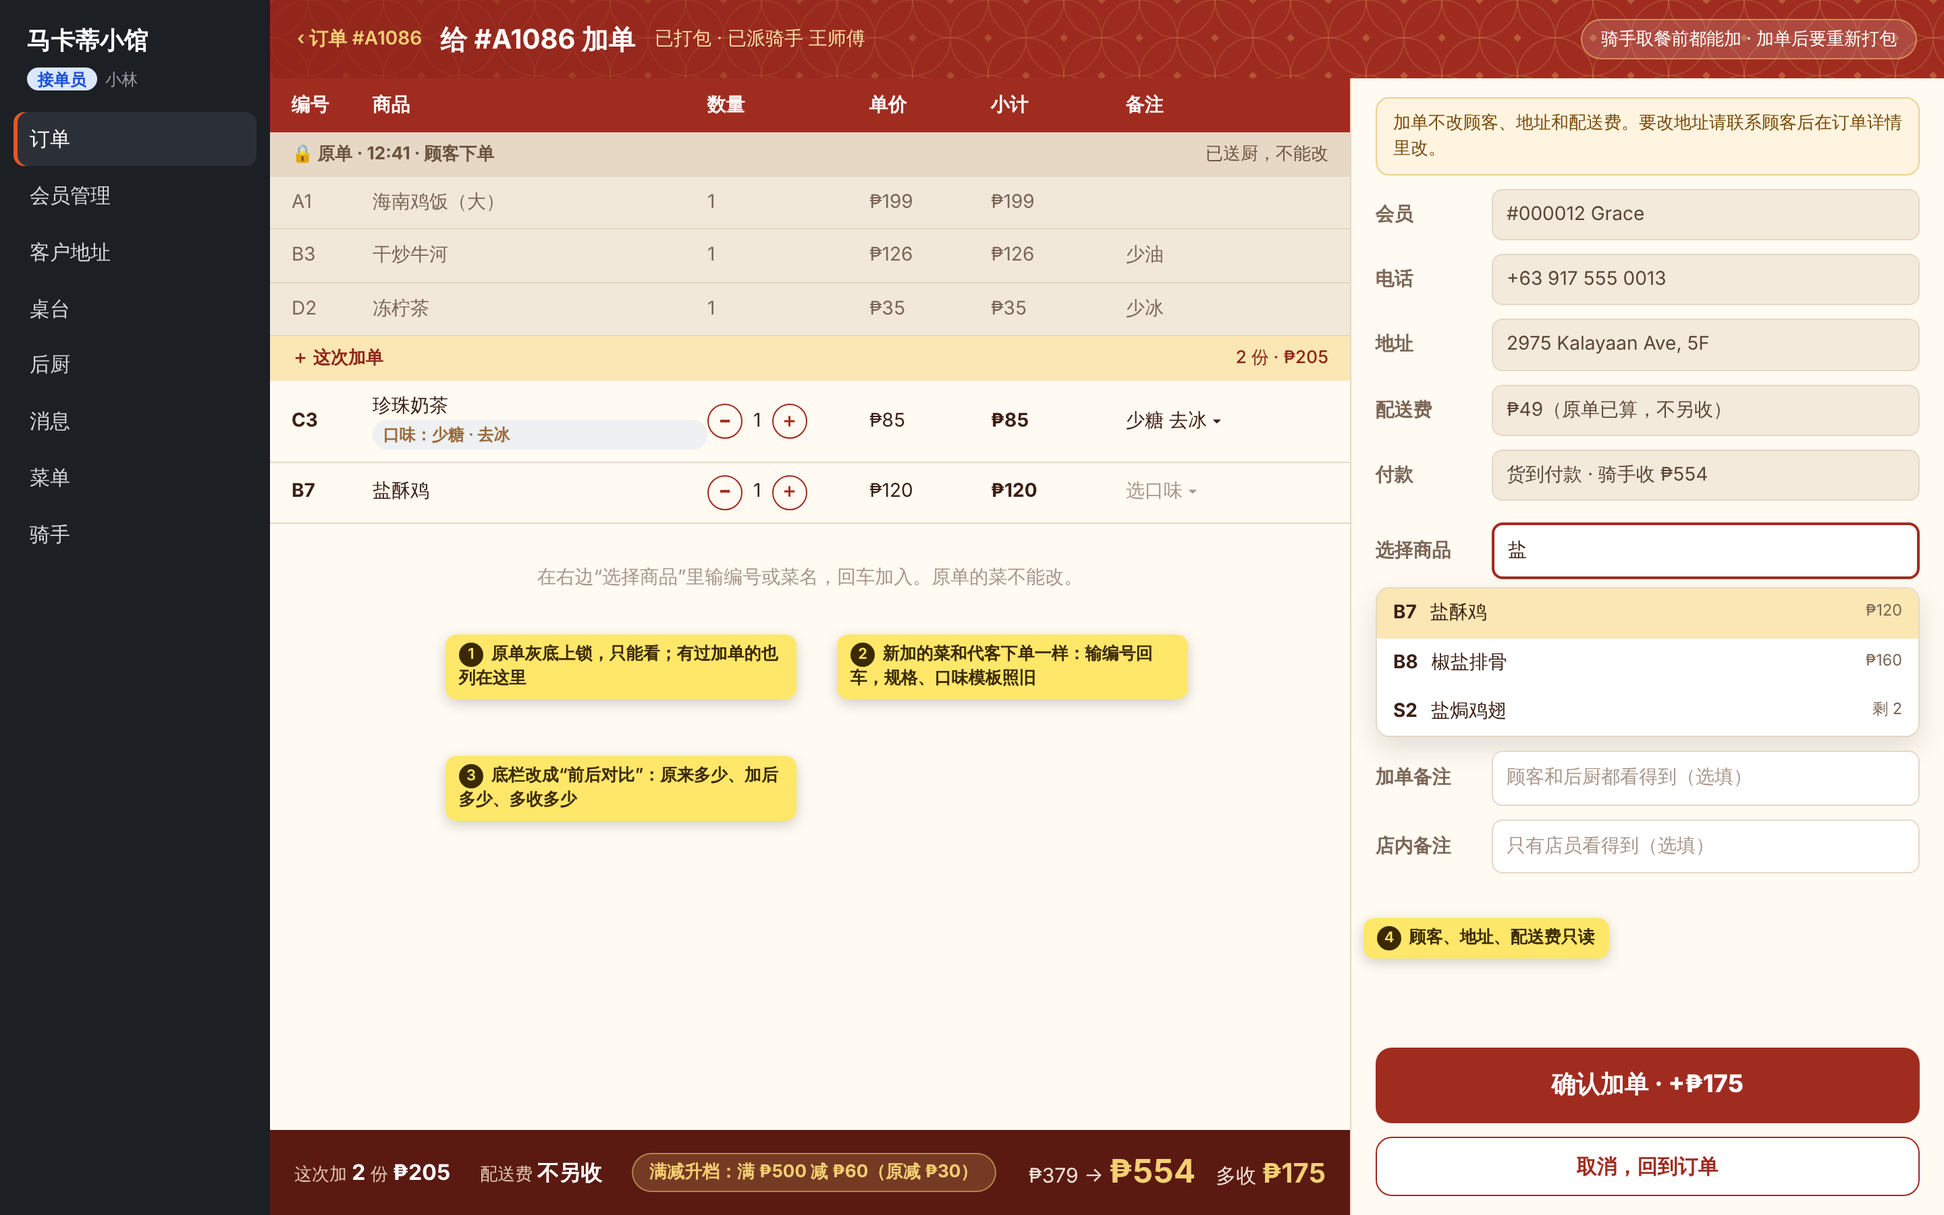
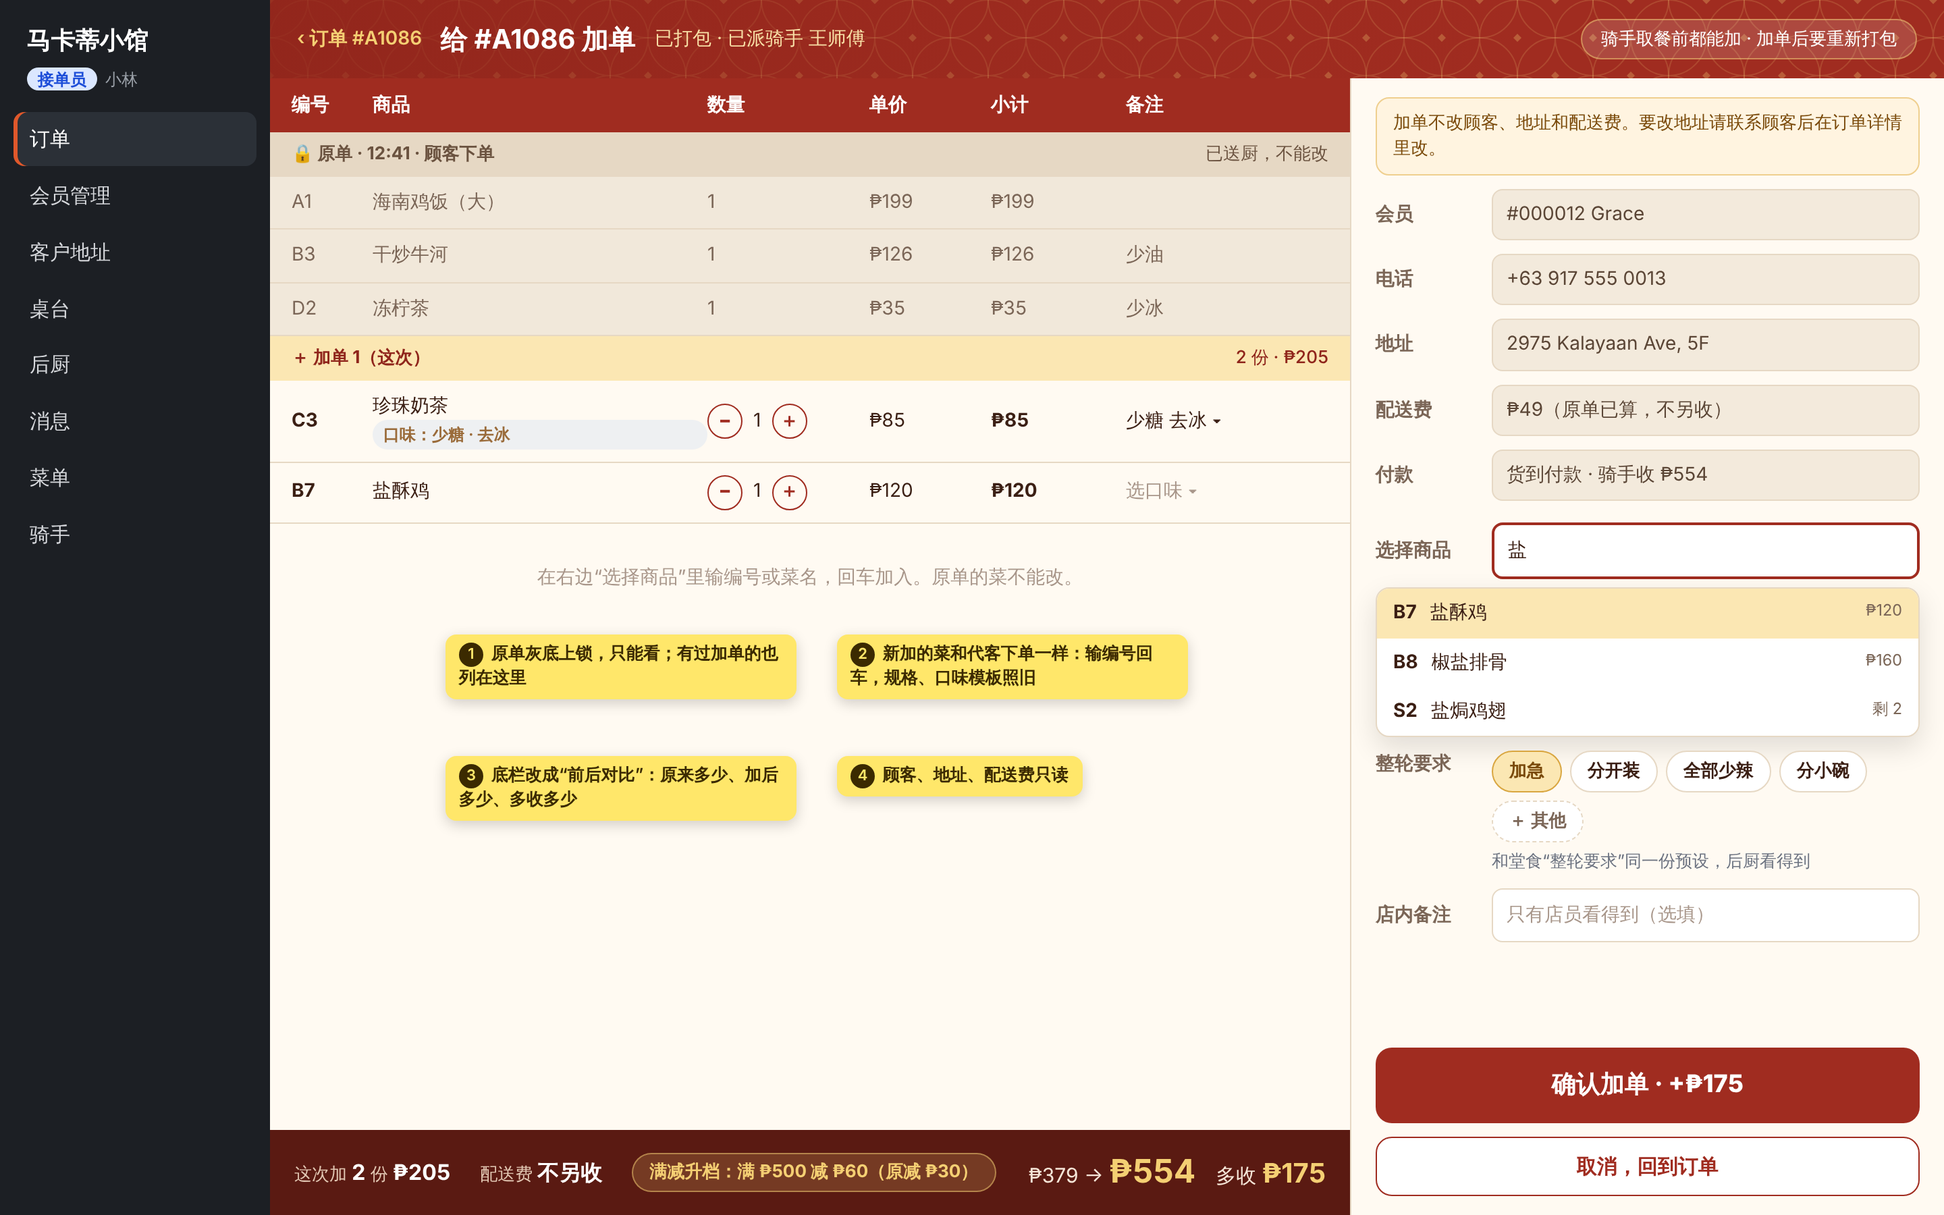
加单方案 v0.2：按堂食模式实际实现调整（批次字段、轮次抬头、后厨写法、权限、补单小票）
Claude-Session: https://claude.ai/code/session_0171QGWL5tMNTkqrfGXYh7eL

diff --git a/docs/add-on-order-prototype/index.html b/docs/add-on-order-prototype/index.html
@@ -29,7 +29,8 @@
   .cols { display: grid; grid-template-columns: 1fr 380px; gap: 16px; min-height: 0; flex: 1; }
   .box { background: #fff; border: 1px solid #e5e7eb; border-radius: 12px; padding: 16px 18px; }
   .box h3 { margin: 0 0 8px; font-size: 16px; }
-  .seghead { display: flex; align-items: center; gap: 8px; margin: 12px 0 2px; padding: 6px 10px; border-radius: 8px; background: #f4f5f6; font-size: 13px; color: #4b5563; font-weight: 600; }
+  .seghead { display: flex; align-items: center; gap: 6px; margin: 12px 0 2px; padding: 7px 10px; border-radius: 6px; background: #f3e7d4; font-size: 13px; color: #7b6657; font-weight: 600; }
+  .seghead b { color: #3b1f14; }
   .seghead.add { background: #fff1e2; color: #a2510a; }
   .seghead.pend { background: #fff7e0; color: #8a5a00; border: 1px dashed #e8b64c; }
   .seghead .r { margin-inline-start: auto; font-weight: 500; }
@@ -79,6 +80,8 @@
   .dd div { padding: 8px 12px; font-size: 14px; display: flex; gap: 10px; } .dd div.on { background: #fbe7b3; } .dd small { margin-inline-start: auto; color: var(--muted); }
   .wbtn { background: var(--red); color: #fff; border-radius: 12px; text-align: center; padding: 15px 0; font-size: 18px; font-weight: 800; }
   .wbtn.ghost { background: #fff; color: var(--red); border: 1.5px solid var(--red); padding: 10px 0; font-size: 15px; }
+  .chipw { border: 1.5px solid var(--line); background: #fff; border-radius: 999px; padding: 5px 12px; font-size: 13px; font-weight: 600; color: var(--ink); }
+  .chipw.on { background: #fbe7b3; border-color: #d9a640; color: #7a4a0a; } .chipw.dash { border-style: dashed; color: var(--muted); }
   .lockbar { background: #fff4e0; border: 1px solid #efcf8f; color: #7a4a0a; border-radius: 10px; padding: 9px 12px; font-size: 13px; }
 
   /* 弹窗 */
@@ -122,6 +125,18 @@
   .stp { font-size: 12px; font-weight: 700; border-radius: 999px; padding: 1px 8px; }
 
   /* 后厨 / 骑手 */
+  .ktabs { display: inline-flex; background: #eceef0; border-radius: 999px; padding: 4px; } .ktabs span { padding: 7px 16px; border-radius: 999px; font-weight: 700; font-size: 15px; } .ktabs span.on { background: #fff; color: #c2410c; }
+  .kbtn { border: 1px solid #e5e7eb; background: #fff; border-radius: 8px; padding: 6px 12px; font-weight: 600; font-size: 13px; } .kbtn.on { background: #c2410c; color: #fff; border-color: #c2410c; }
+  .kcols { display: grid; grid-template-columns: repeat(3, 1fr); gap: 12px; align-items: start; }
+  .kcard { background: #fff; border: 1px solid #e5e7eb; border-radius: 12px; padding: 12px 14px; display: flex; flex-direction: column; gap: 6px; }
+  .kcard.hot { border: 2px solid #f08a24; box-shadow: 0 0 0 3px rgba(240,138,36,.18); }
+  .kh2 { display: flex; align-items: center; gap: 6px; font-size: 18px; }
+  .tg { font-size: 12px; font-weight: 700; border-radius: 999px; padding: 2px 8px; background: #eceef0; color: #4b5563; }
+  .tg.brand { background: #ffe4d6; color: #c2410c; } .tg.org { background: #f08a24; color: #fff; } .tg.warn { background: #fde9cf; color: #b26a00; } .tg.bad { background: #fde2df; color: #b42318; margin-inline-end: 4px; }
+  .kl { display: flex; align-items: center; gap: 6px; padding: 7px 0; border-top: 1px solid #eef0f2; }
+  .kl.done .kn { color: #9ca3af; } .kl.new { background: #fff7ed; margin: 0 -8px; padding: 7px 8px; border-radius: 8px; border-top-color: transparent; }
+  .kl .g { flex: 1; min-width: 0; } .kn { font-size: 16px; font-weight: 700; } .sm { font-size: 12.5px; } .mut { color: #6b7280; font-weight: 400; } .kr { color: #b26a00; font-weight: 700; }
+  .kb { border: 1px solid #e5e7eb; border-radius: 8px; padding: 4px 10px; font-size: 13px; font-weight: 600; background: #fff; } .kb.ok { background: #1f8a4c; color: #fff; border-color: #1f8a4c; }
   .kds { background: #111418; color: #e8eaed; flex: 1; padding: 16px; display: grid; grid-template-columns: repeat(3, 1fr); gap: 14px; align-content: start; }
   .kc { background: #1d2228; border-radius: 12px; overflow: hidden; border: 2px solid #2c333b; }
   .kc.hot { border-color: #f08a24; box-shadow: 0 0 0 3px rgba(240,138,36,.25); }
@@ -148,14 +163,14 @@
     <div class="cols">
       <div class="box" style="overflow:hidden">
         <h3>菜品 <span style="font-weight:500;color:#6b7280;font-size:13px">原单 + 加单 1 次</span></h3>
-        <div class="seghead">原单 · 12:41 · 顾客下单<span class="r">3 份 · ₱360</span></div>
+        <div class="seghead"><b>原单</b> 12:41 · 顾客下单<span class="r">3 份 · ₱360</span></div>
         <div class="ln"><span class="q">×1</span>海南鸡饭（大）<span class="p">₱199</span></div>
         <div class="ln"><span class="q">×1</span>干炒牛河 <small>少油</small><span class="p">₱126</span></div>
         <div class="ln"><span class="q">×1</span>冻柠茶 <small>少冰</small><span class="p">₱35</span></div>
-        <div class="seghead add">加单 1 · 12:55 · 店员 小林（客户微信）<span class="r">2 份 · ₱205</span></div>
+        <div class="seghead add"><b>加单 1</b> 12:55 · 店员 小林 · 加急<span class="r">2 份 · ₱205</span></div>
         <div class="ln"><span class="q">×1</span>珍珠奶茶 <small>少糖 · 去冰</small><span class="st" style="background:#fde9cf;color:#c2650a">制作中</span><span class="p">₱85</span></div>
         <div class="ln"><span class="q">×1</span>盐酥鸡<span class="st" style="background:#fde9cf;color:#c2650a">制作中</span><span class="p">₱120</span></div>
-        <div class="seghead pend">顾客加菜 · 13:02 · 等你确认（还剩 4:12）<span class="r">1 份 · +₱45</span></div>
+        <div class="seghead pend"><b>加单 2</b> 13:02 · 顾客加菜 · 等你确认（还剩 4:12）<span class="r">1 份 · +₱45</span></div>
         <div class="ln" style="background:#fffbef"><span class="q">×1</span>卤蛋<span class="p">₱45</span></div>
         <div style="display:flex;gap:10px;padding:8px 10px 4px"><span class="btn green" style="padding:7px 16px">确认加菜</span><span class="btn" style="padding:7px 16px">拒绝…</span><span class="hint" style="margin:auto 0">确认后金额变成 ₱599</span></div>
         <div style="margin-top:10px">
@@ -181,13 +196,13 @@
         </div>
         <div class="box" style="font-size:13px;color:#4b5563;line-height:1.7">
           <h3>操作记录</h3>
-          12:41 顾客下单 · 12:42 小林 接单<br>12:52 打包完成 2 袋 · 12:53 派给 王师傅<br><b style="color:#a2510a">12:55 小林 加单 2 份 +₱175，退回“等菜”</b><br><b style="color:#8a5a00">13:02 顾客加菜 1 份，等确认</b>
+          12:41 顾客下单 · 12:42 小林 接单<br>12:52 打包完成 2 袋 · 12:53 派给 王师傅<br><b style="color:#a2510a">12:55 小林 加单 2 份 +₱175（加急），退回“等菜”</b><br><b style="color:#8a5a00">13:02 顾客加菜 1 份，等确认</b>
         </div>
       </div>
     </div>
   </div>
   <div class="anno" data-n="1" style="left:1040px;top:670px">截止前一直有“＋加单”，下面一行写清楚能加到什么时候、加了会怎样</div>
-  <div class="anno" data-n="2" style="left:330px;top:720px">菜品按“原单 / 加单 N”分段，写时间和谁加的；和堂食的“第 N 轮”同一个组件</div>
+  <div class="anno" data-n="2" style="left:330px;top:720px">分段抬头和堂食账单一样：第几批、时间、谁加的、整轮要求</div>
   <div class="anno" data-n="3" style="left:620px;top:720px">顾客自己加的要确认，5 分钟不处理自动失效</div>
   <div class="anno" data-n="4" style="left:330px;top:800px">满减按总额重算只升不降；配送费不另收；骑手收新总额</div>
 </div>
@@ -209,7 +224,7 @@
         <div class="trow lock"><span>A1</span><span>海南鸡饭（大）</span><span>1</span><span>₱199</span><span>₱199</span><span></span></div>
         <div class="trow lock"><span>B3</span><span>干炒牛河</span><span>1</span><span>₱126</span><span>₱126</span><span>少油</span></div>
         <div class="trow lock"><span>D2</span><span>冻柠茶</span><span>1</span><span>₱35</span><span>₱35</span><span>少冰</span></div>
-        <div class="rhead new">＋ 这次加单<span class="r">2 份 · ₱205</span></div>
+        <div class="rhead new">＋ 加单 1（这次）<span class="r">2 份 · ₱205</span></div>
         <div class="trow"><span><b>C3</b></span><span>珍珠奶茶<span class="tag">口味：少糖 · 去冰</span></span><span class="qbox"><i>−</i>1<i>＋</i></span><span>₱85</span><span><b>₱85</b></span><span>少糖 去冰 ▾</span></div>
         <div class="trow"><span><b>B7</b></span><span>盐酥鸡</span><span class="qbox"><i>−</i>1<i>＋</i></span><span>₱120</span><span><b>₱120</b></span><span style="color:#a8968a">选口味 ▾</span></div>
         <div style="padding:30px;text-align:center;color:#a8968a">在右边“选择商品”里输编号或菜名，回车加入。原单的菜不能改。</div>
@@ -229,7 +244,8 @@
         <div class="frow"><span>付款</span><div class="ro">货到付款 · 骑手收 ₱554</div></div>
         <div class="frow" style="margin-top:6px"><span>选择商品</span><div class="inp on">盐</div></div>
         <div class="dd"><div class="on"><b>B7</b>盐酥鸡<small>₱120</small></div><div><b>B8</b>椒盐排骨<small>₱160</small></div><div><b>S2</b>盐焗鸡翅<small>剩 2</small></div></div>
-        <div class="frow"><span>加单备注</span><div class="inp">顾客和后厨都看得到（选填）</div></div>
+        <div class="frow" style="align-items:start"><span>整轮要求</span><div style="display:flex;flex-wrap:wrap;gap:6px"><span class="chipw on">加急</span><span class="chipw">分开装</span><span class="chipw">全部少辣</span><span class="chipw">分小碗</span><span class="chipw dash">＋ 其他</span></div></div>
+        <div class="hint" style="margin:-4px 0 0 86px">和堂食“整轮要求”同一份预设，后厨看得到</div>
         <div class="frow"><span>店内备注</span><div class="inp">只有店员看得到（选填）</div></div>
         <div style="margin-top:auto;display:grid;gap:10px">
           <div class="wbtn">确认加单 · +₱175</div>
@@ -241,7 +257,7 @@
   <div class="anno" data-n="1" style="left:330px;top:470px">原单灰底上锁，只能看；有过加单的也列在这里</div>
   <div class="anno" data-n="2" style="left:620px;top:470px">新加的菜和代客下单一样：输编号回车，规格、口味模板照旧</div>
   <div class="anno" data-n="3" style="left:330px;top:560px">底栏改成“前后对比”：原来多少、加后多少、多收多少</div>
-  <div class="anno" data-n="4" style="left:1010px;top:680px">顾客、地址、配送费只读</div>
+  <div class="anno" data-n="4" style="left:620px;top:560px">顾客、地址、配送费只读</div>
 </div>
 </section>
 
@@ -267,7 +283,7 @@ B7 盐酥鸡 ×1 ₱120
     <div style="text-align:center;font-weight:700">马卡蒂小馆 · 后厨</div>
     <div class="big">加单 1</div>
     <div>原单 <b>#A1086</b> · 外卖 · Grace</div>
-    <div>12:55 · 店员 小林</div>
+    <div>12:55 · 店员 小林 · <b>加急</b></div>
     <hr>
     <div><b>1 × 珍珠奶茶</b></div><div>　· 少糖 · 去冰</div>
     <div><b>1 × 盐酥鸡</b></div>
@@ -405,34 +421,32 @@ B7 盐酥鸡 ×1 ₱120
 <!-- ======================= S6 后厨、打包、骑手 + 和堂食统一 ======================= -->
 <section id="s6">
 <div class="pc ok" style="flex-direction:column">
-  <div style="height:52px;background:#1c1f24;color:#fff;display:flex;align-items:center;gap:14px;padding:0 18px;flex:none"><b style="font-size:18px">后厨屏 · 热厨</b><span style="color:#9aa4ae">马卡蒂小馆</span><span style="margin-inline-start:auto;background:#5a3307;color:#ffcf8a;border-radius:999px;padding:4px 12px;font-weight:700">2 单有加单</span></div>
-  <div class="kds">
-    <div class="kc hot">
-      <div class="kh">#A1086 <small>外卖 · Grace</small><span class="tm">14 分</span></div>
-      <div class="ks">原单 · 12:41</div>
-      <div class="ki done">1 海南鸡饭（大）<span class="b">已好</span></div>
-      <div class="ki done">1 干炒牛河 <small>少油</small><span class="b">已好</span></div>
-      <div class="ks add">＋ 加单 1 · 12:55 · 和原单一起出</div>
-      <div class="ki">1 珍珠奶茶 <small>少糖 · 去冰</small></div>
-      <div class="ki">1 盐酥鸡</div>
+  <div style="display:flex;flex:1;min-height:0">
+  <div class="nav" style="flex:none"><div class="brand">马卡蒂小馆</div><div class="role"><b style="background:#eceef0;color:#4b5563">员工</b>后厨 阿明</div><a class="on">后厨</a><a>菜单</a><a>我的工作台</a></div>
+  <div class="content" style="gap:10px">
+    <div style="display:flex;align-items:center;gap:10px"><div class="ktabs"><span class="on">制作 · 3</span><span>打包 · 1</span><span>上菜 · 0</span></div><span style="margin-inline-start:auto;color:#6b7280;font-size:13px">同步于 13:02:20</span></div>
+    <div style="display:flex;gap:6px"><span class="kbtn">全部</span><span class="kbtn on">热厨 / Hot kitchen · 3</span><span class="kbtn">饮品台 / Drinks · 1</span><span class="kbtn">未分台 · 0</span></div>
+    <div class="kcols">
+      <div class="kcard hot">
+        <div class="kh2"><b>#A1086</b><span class="tg brand">外卖</span><span class="tg org">加单</span><span class="tg" style="margin-inline-start:auto">14 分</span></div>
+        <div class="kl done"><div class="g"><div class="kn">1 × 海南鸡饭（大）</div></div><span class="kb">撤销</span></div>
+        <div class="kl done"><div class="g"><div class="kn">1 × 干炒牛河</div><div class="sm">少油</div></div><span class="kb">撤销</span></div>
+        <div class="kl new"><div class="g"><div class="kn">1 × 珍珠奶茶<span class="sm mut"> · 加单 1</span></div><div class="sm kr">※ 加急</div><div class="sm">少糖 · 去冰</div></div><span class="kb">开始</span><span class="kb ok">做好</span></div>
+        <div class="kl new"><div class="g"><div class="kn">1 × 盐酥鸡<span class="sm mut"> · 加单 1</span></div><div class="sm kr">※ 加急</div></div><span class="kb">开始</span><span class="kb ok">做好</span></div>
+      </div>
+      <div class="kcard">
+        <div class="kh2"><b>桌 A3</b><span class="tg warn">有小孩</span><span class="tg brand">堂食</span><span class="sm mut" style="margin-inline-start:auto">D1124-007</span></div>
+        <div class="kl done"><div class="g"><div class="kn">1 × 小炒黄牛肉<span class="sm mut"> · 第 1 轮</span></div><div class="sm">大份</div></div><span class="kb">撤销</span></div>
+        <div class="kl"><div class="g"><div class="kn"><span class="tg bad">催菜</span>1 × 酸菜鱼<span class="sm mut"> · 第 2 轮</span></div><div class="sm kr">※ 先上饮料</div><div class="sm">微辣</div></div><span class="kb ok">做好</span></div>
+        <div class="kl"><div class="g"><div class="kn">1 × 扬州炒饭<span class="sm mut"> · 第 3 轮</span></div></div><span class="kb">开始</span><span class="kb ok">做好</span></div>
+      </div>
+      <div class="kcard">
+        <div class="kh2"><b>#A1091</b><span class="tg brand">自取</span><span class="tg" style="margin-inline-start:auto">6 分</span></div>
+        <div class="kl"><div class="g"><div class="kn">2 × 扬州炒饭</div></div><span class="kb">开始</span><span class="kb ok">做好</span></div>
+        <div class="kl"><div class="g"><div class="kn">1 × 椒盐排骨</div></div><span class="kb">开始</span><span class="kb ok">做好</span></div>
+      </div>
     </div>
-    <div class="kc hot">
-      <div class="kh">A3 桌 <small>堂食 · 3 人</small><span class="tm">42 分</span></div>
-      <div class="ks">第 1 轮 · 18:02 · 店员 阿玲</div>
-      <div class="ki done">1 小炒黄牛肉 <small>大份</small><span class="b">已上</span></div>
-      <div class="ks">第 2 轮 · 18:20 · 顾客扫码</div>
-      <div class="ki done">1 蒜蓉菜心<span class="b">已好</span></div>
-      <div class="ks add">＋ 第 3 轮 · 18:44 · 店员 阿玲 · 先上饮料</div>
-      <div class="ki">1 酸菜鱼 <small>微辣</small></div>
-    </div>
-    <div class="kc">
-      <div class="kh">#A1091 <small>自取 · 陈小姐</small><span class="tm">6 分</span></div>
-      <div class="ks">原单 · 12:58</div>
-      <div class="ki">2 扬州炒饭</div>
-      <div class="ki">1 椒盐排骨</div>
-    </div>
-  </div>
-  <div style="display:grid;grid-template-columns:1fr 1fr;gap:16px;padding:0 16px 16px;background:#111418">
+<div style="display:grid;grid-template-columns:1fr 1fr;gap:16px;margin-top:auto">
     <div class="box">
       <h3>打包台 · #A1086 <span class="chip org">加单后重新打包</span></h3>
       <div class="callout org">已打包 2 袋。加单 1 有 <b>2 份</b>要加装：珍珠奶茶、盐酥鸡（还在做）。</div>
@@ -442,13 +456,14 @@ B7 盐酥鸡 ×1 ₱120
     <div class="box">
       <h3>同一套“轮次”显示</h3>
       <div style="display:grid;grid-template-columns:1fr 1fr;gap:12px;font-size:13px">
-        <div><div class="seghead" style="margin-top:0">原单 · 12:41 · 顾客</div><div class="seghead add">加单 1 · 12:55 · 店员 小林</div><div class="seghead pend">顾客加菜 · 等确认</div><div class="hint">外卖、自取：截止到骑手取餐 / 顾客取走</div></div>
-        <div><div class="seghead" style="margin-top:0">第 1 轮 · 18:02 · 店员</div><div class="seghead">第 2 轮 · 18:20 · 扫码</div><div class="seghead add">第 3 轮 · 18:44 · 店员</div><div class="hint">堂食：截止到结账关台（PR #103）</div></div>
+        <div><div class="seghead" style="margin-top:0"><b>原单</b> 12:41 · 顾客下单</div><div class="seghead add"><b>加单 1</b> 12:55 · 店员 小林 · 加急</div><div class="seghead pend"><b>加单 2</b> 13:02 · 顾客加菜 · 等确认</div><div class="hint">外卖、自取：截止到骑手取餐 / 顾客取走</div></div>
+        <div><div class="seghead" style="margin-top:0"><b>第 1 轮</b> 18:02 · 店员 阿玲 · 先上饮料</div><div class="seghead"><b>第 2 轮</b> 18:20 · 顾客扫码</div><div class="seghead add"><b>第 3 轮</b> 18:44 · 店员 阿玲</div><div class="hint">堂食：截止到结账关台（PR #105 已上线）</div></div></div>
       </div>
     </div>
   </div>
-  <div class="anno" data-n="1" style="left:60px;top:470px">加单在原订单卡里另起一段，橙色“＋加单”，几分钟内闪烁</div>
-  <div class="anno" data-n="2" style="left:520px;top:470px">堂食的新一轮和外卖加单在后厨长一样</div>
+  </div></div>
+  <div class="anno" data-n="1" style="left:250px;top:420px">和堂食现在的写法一样：菜后写“· 加单 1”，下面“※ 整轮要求”；卡片多一个“加单”标签，3 分钟内描橙边</div>
+  <div class="anno" data-n="2" style="left:780px;top:420px">堂食（PR #105 已上线的样子）：“· 第 N 轮”、整轮要求、催菜</div>
 </div>
 </section>
 
